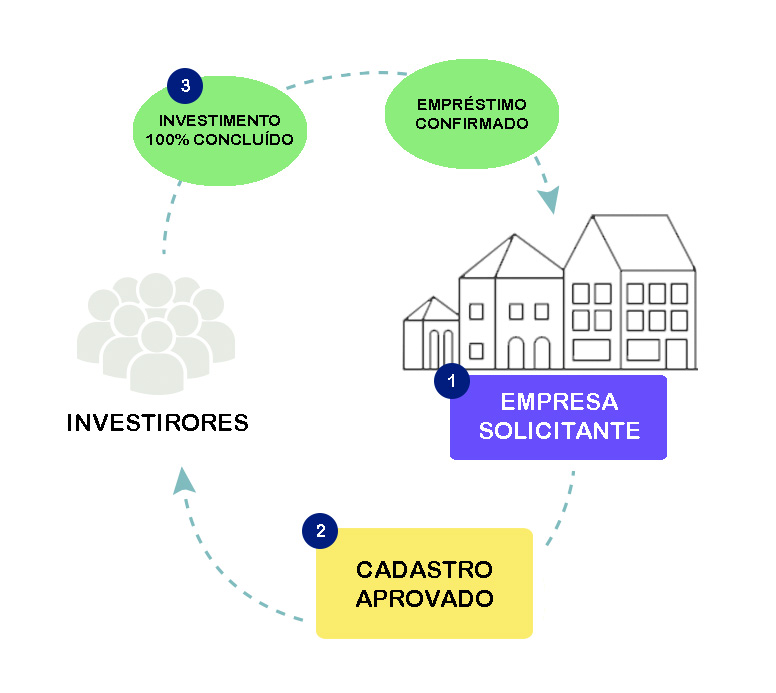
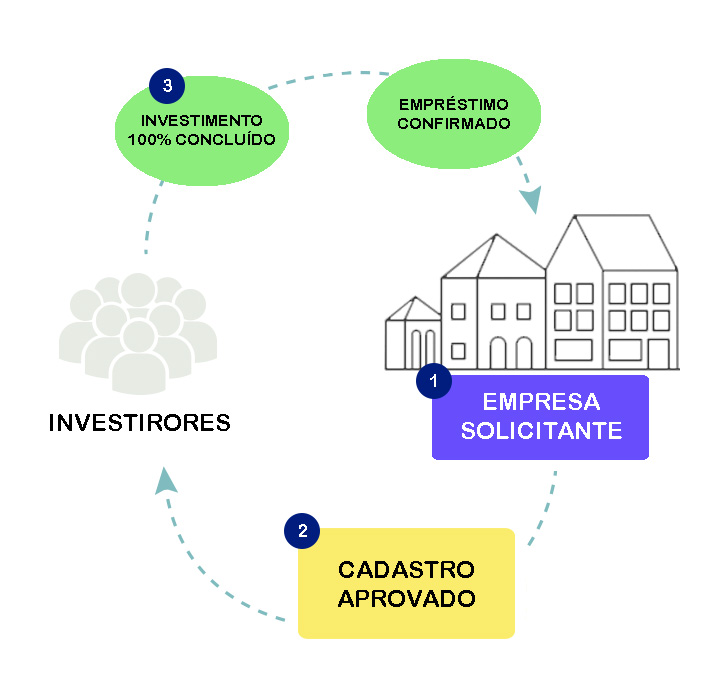
Changes CSS Img L'e'nding Page

diff --git a/public/stylesheets/home.css b/public/stylesheets/home.css
@@ -39,11 +39,22 @@
 .text_col{
 	padding: 0 50px;
 }
+.box_geral #HIW_infograf{
+	margin: auto;
+	height: 600px;
+	width: 335px;
+}
 #HIW_infograf{
-	width: auto;
+	background-image: url("../img/HIW_loan_xp.jpg");
+	background-repeat: no-repeat;
 }
 @media screen and (min-width: 550px){
-
+	.box_geral #HIW_infograf{
+		width: 335px;
+	}
+	#HIW_infograf{
+		background-image: url("../img/HIW_loan_p.jpg");
+	}
 }
 
 @media screen and (min-width: 768px){
@@ -61,6 +72,13 @@
 	}
 	.text_col{
 		padding: 0 10px;
+	}
+	.box_geral #HIW_infograf{
+		height: 660px;
+		width: 728px;
+	}
+	#HIW_infograf{
+		background-image: url("../img/HIW_loan.jpg");
 	}
 }
 
